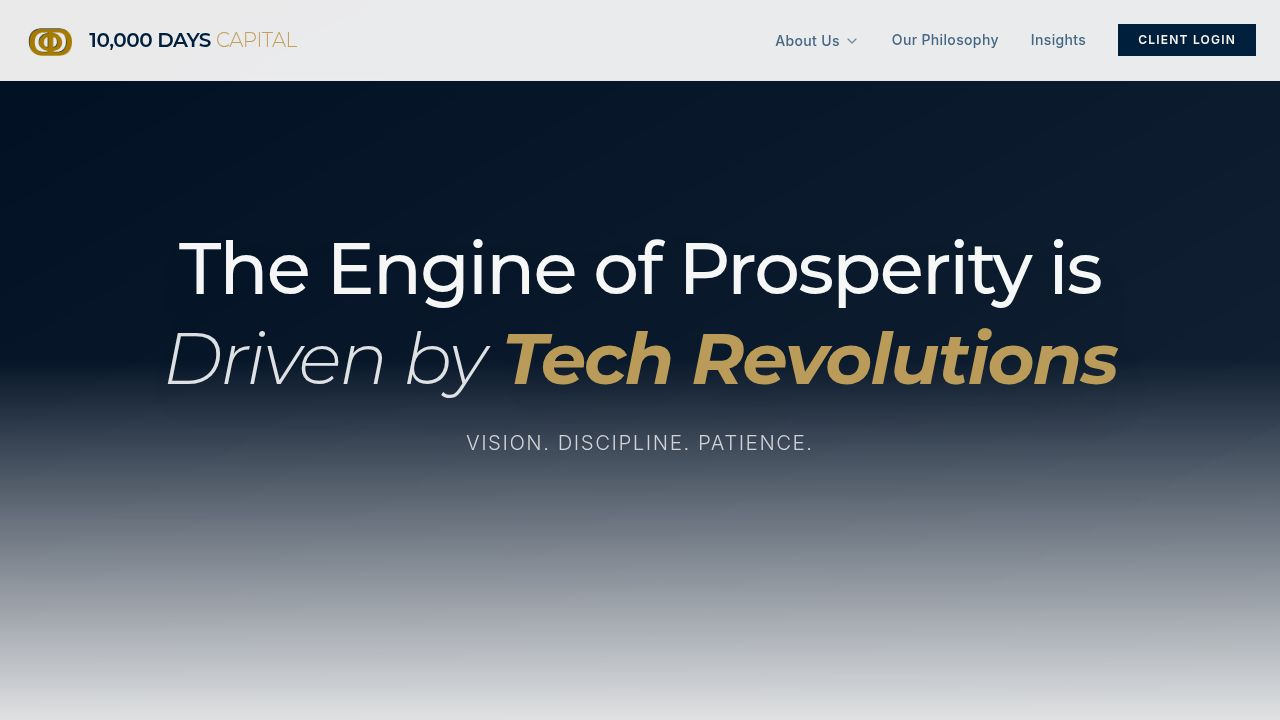
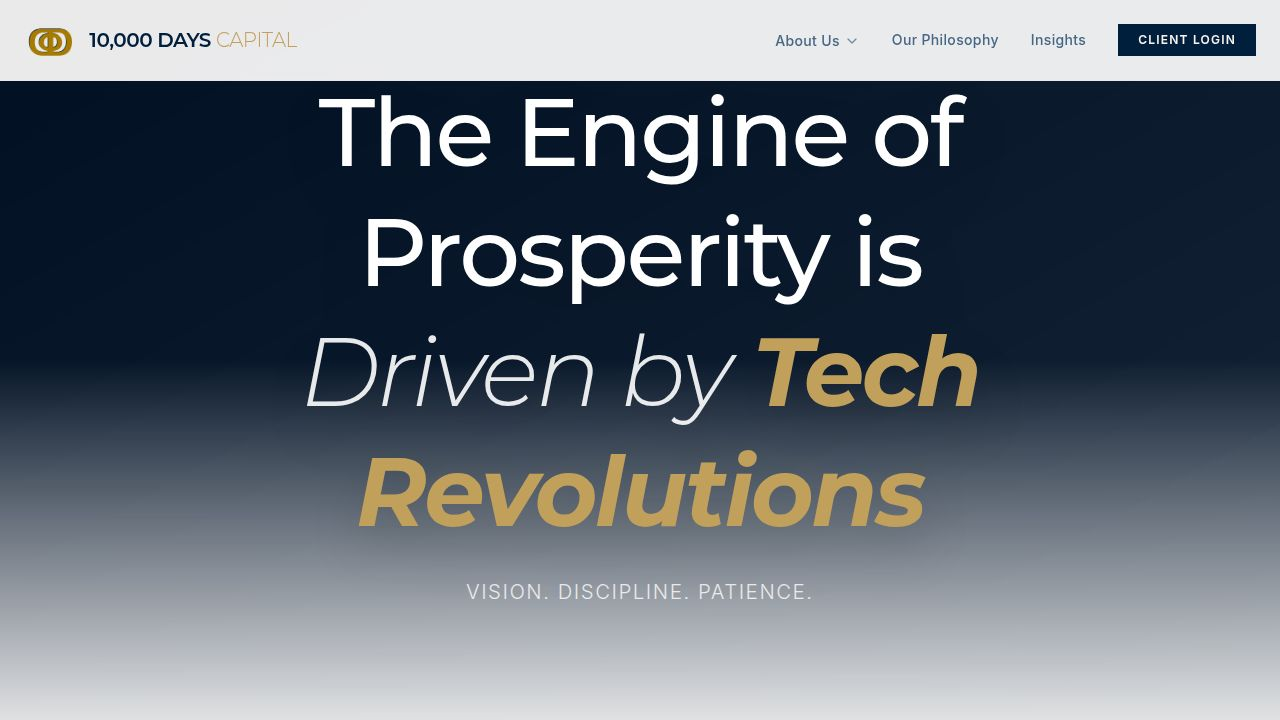
Increase font size on the main page title
Update the font sizes for the hero section heading in Hero.tsx to text-5xl, md:text-7xl, and lg:text-8xl.

Replit-Commit-Author: Agent
Replit-Commit-Session-Id: 189ab195-7c03-46db-92ee-5c7422e34cb6
Replit-Commit-Checkpoint-Type: full_checkpoint
Replit-Commit-Event-Id: e62c528d-52b2-43d6-b630-57ee51de1b1f
Replit-Commit-Screenshot-Url: https://storage.googleapis.com/screenshot-production-us-central1/b99590cd-922a-419c-986d-fb135e877d0a/189ab195-7c03-46db-92ee-5c7422e34cb6/GA1XUms
Replit-Helium-Checkpoint-Created: true

diff --git a/client/src/components/home/Hero.tsx b/client/src/components/home/Hero.tsx
@@ -33,7 +33,7 @@ export function Hero() {
           animate={{ opacity: 1, y: 0 }}
           transition={{ duration: 1, ease: "easeOut" }}
         >
-          <h1 className="font-display text-4xl md:text-6xl lg:text-7xl font-medium tracking-tight text-white mb-6 drop-shadow-2xl max-w-5xl mx-auto leading-tight">
+          <h1 className="font-display text-5xl md:text-7xl lg:text-8xl font-medium tracking-tight text-white mb-6 drop-shadow-2xl max-w-5xl mx-auto leading-tight">
             The Engine of Prosperity is <br />
             <span className="text-white/90 font-light italic">Driven by <span className="font-bold text-secondary">Tech Revolutions</span></span>
           </h1>
